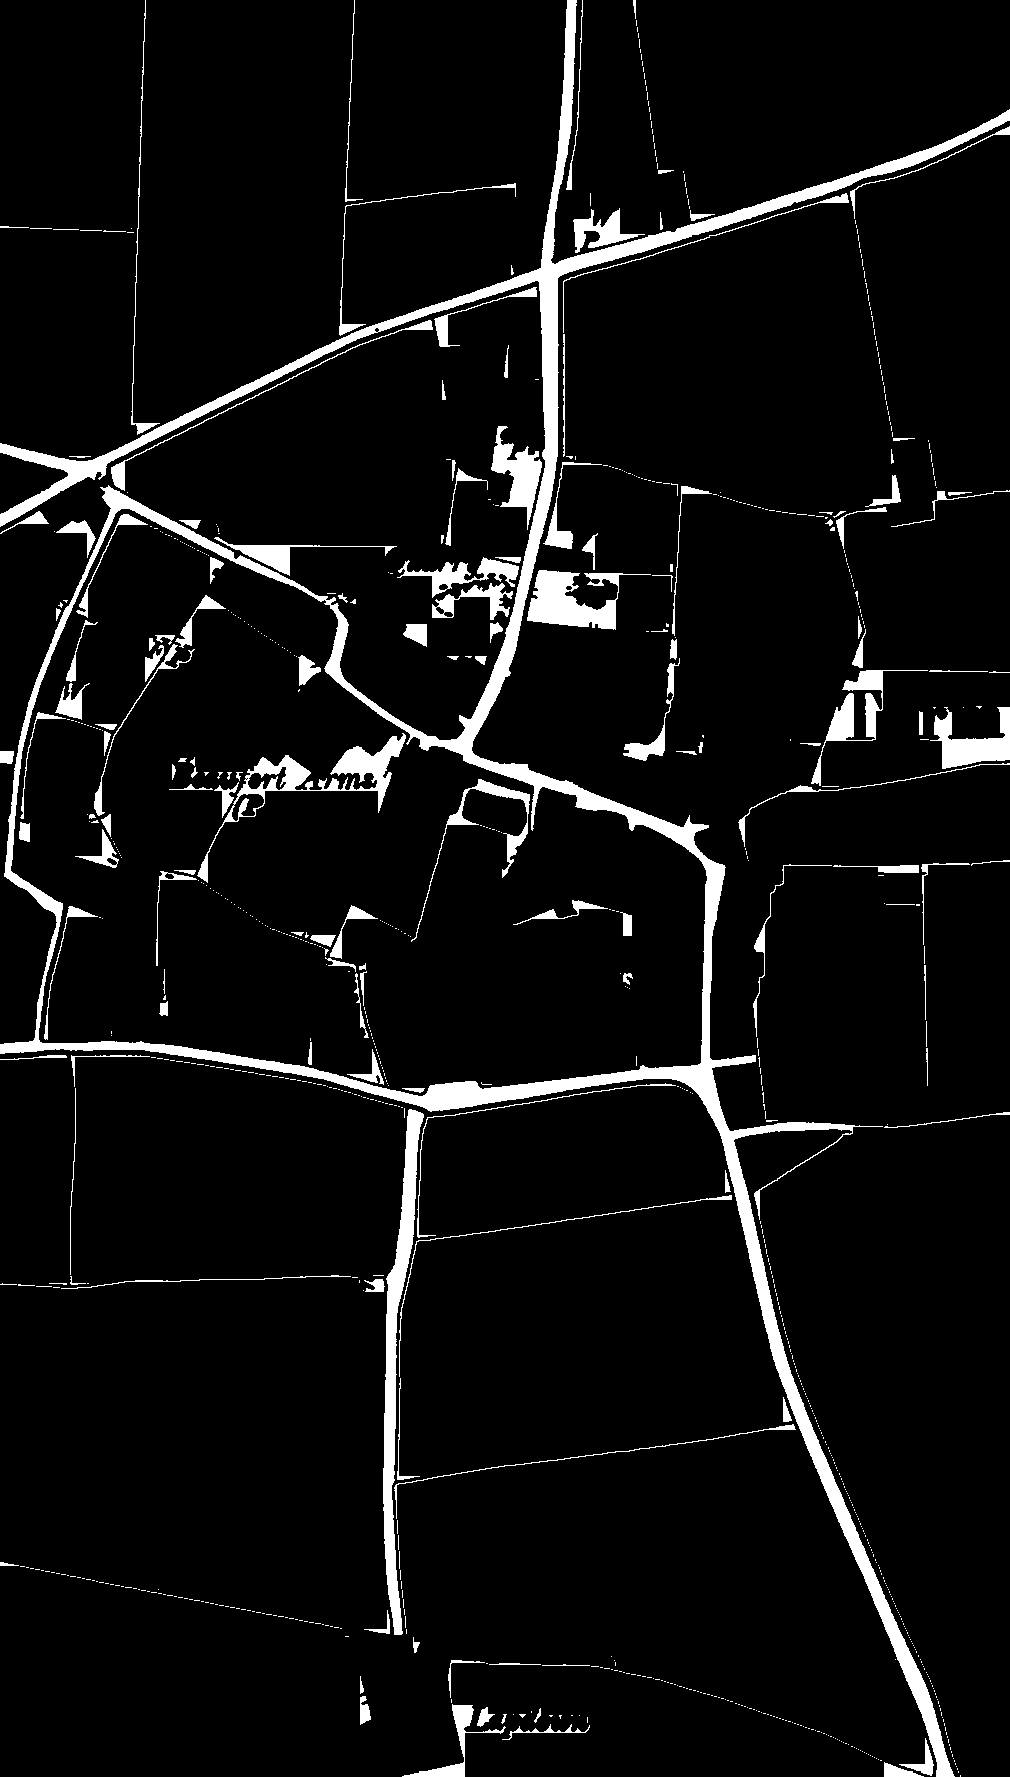
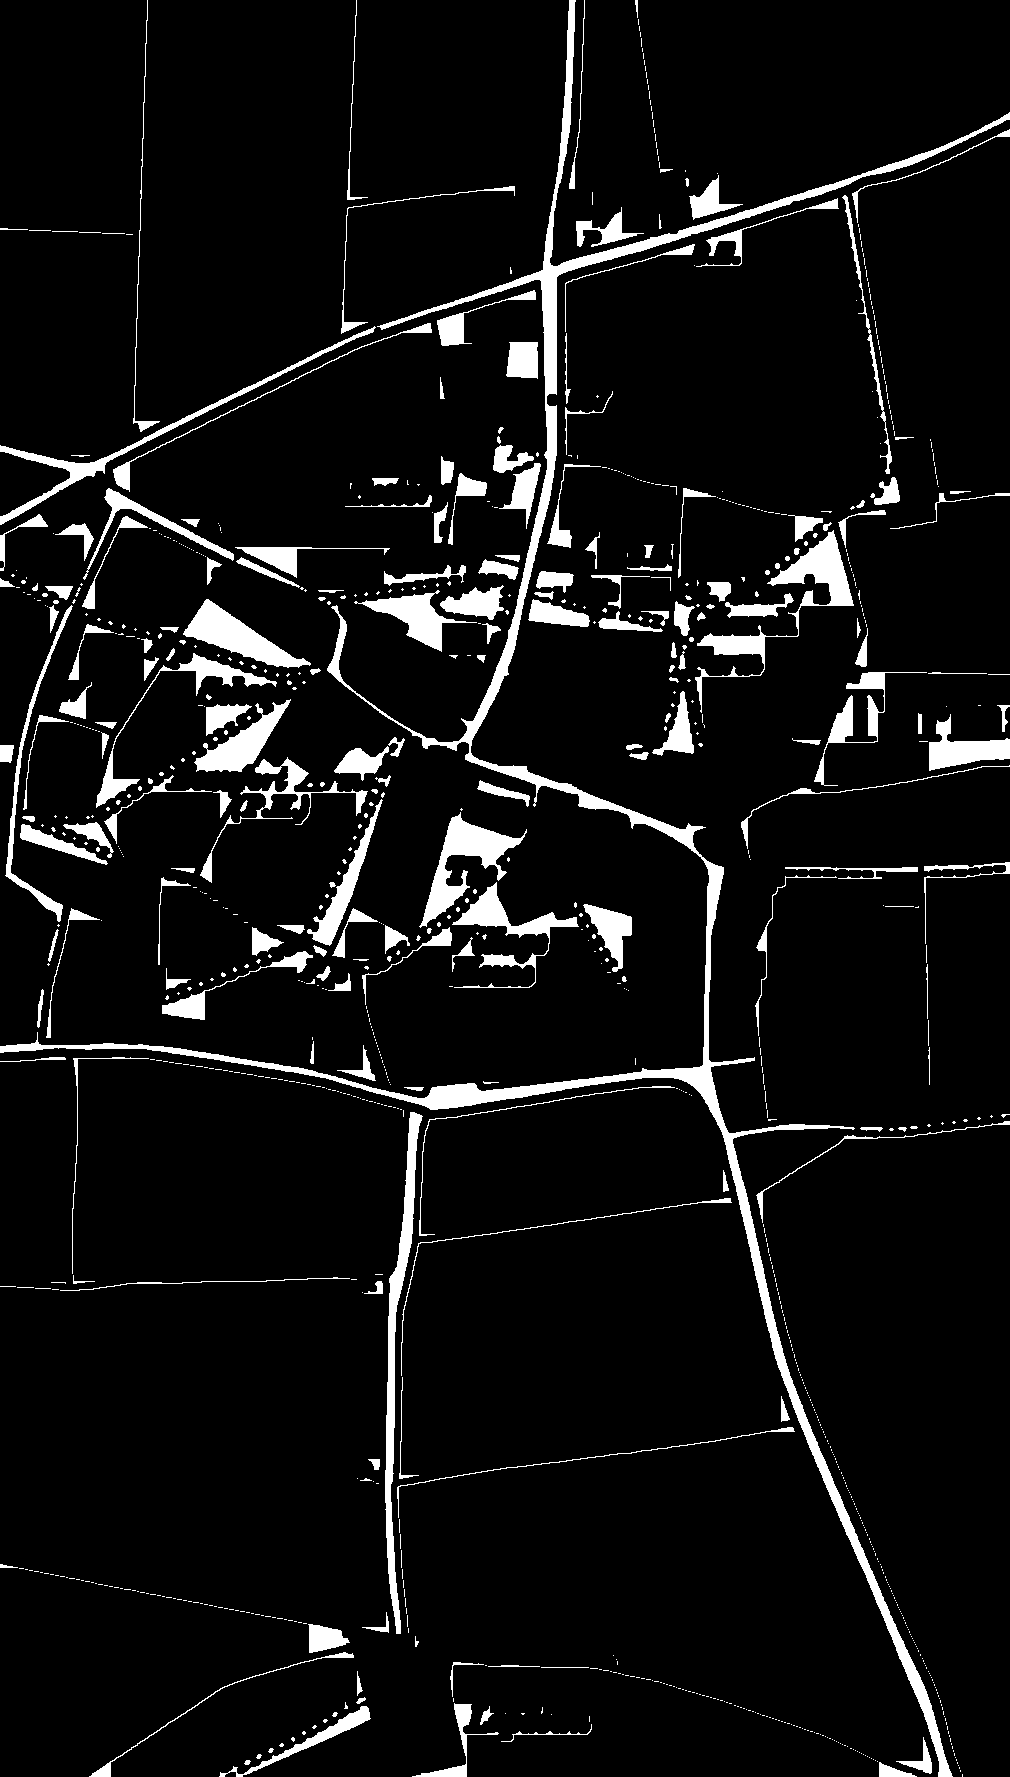
Improved erase_areas functionality

diff --git a/desCartes.py b/desCartes.py
@@ -42,12 +42,14 @@ from tiles_to_tiff import create_geotiff
 from extract_modern_roads import extract_modern_roads
 from patch_linestrings import merge_groups
 
-# A simple way to get the extent coordinates is to right-click on a Google map in a browser. Click on the displayed coordinates and then paste them below.
+# A simple way to get the extent coordinates is to open a Google map in a browser,
+# then right-click on the south-west corner of the area of interest. Then click on 
+# the displayed coordinates and then paste them below. Repeat for the north-east corner.
 EXTENT_SOUTHWEST_LAT, EXTENT_SOUTHWEST_LNG = 51.95244893871006, -1.7468378073656643
 EXTENT_NORTHEAST_LAT, EXTENT_NORTHEAST_LNG = 51.95504242639973, -1.7415778411414253
-LOCATION_NAME = 'longborough-detail'
+LOCATION_NAME = 'longborough'
 
-RASTER_TILE_KEY = 'U2vLM8EbXurAd3Gq6C45' # TO USE THE URL GIVEN BELOW, GET YOUR OWN KEY FROM https://cloud.maptiler.com/account/keys/
+RASTER_TILE_KEY = 'ySlCyGP2kmmfm9Dgtiqj' # TO USE THE URL GIVEN BELOW, GET YOUR OWN KEY FROM https://cloud.maptiler.com/account/keys/
 RASTER_TILE_URL = 'https://api.maptiler.com/tiles/uk-osgb10k1888/{z}/{x}/{y}.jpg?key=' + RASTER_TILE_KEY
 RASTER_TILE_ZOOM = 17
 
@@ -93,13 +95,25 @@ if SHOW_IMAGES:
     cv2.waitKey(0)
 
 window = 0
-def erase_areas(image, factor, closed = False, black = False, contours = True, subtract = False):
+def erase_areas(image, factor, closed = False, black = False, circles = False, contours = True, subtract = False):
     global window, OUTPUTDIR
     colour = 'black' if black else 'white'
     form = 'shapes' if contours else 'areas'
-    image = cv2.bitwise_not(image) if black else image
+    image = cv2.bitwise_not(image) if (black and not circles) else image
     size = factor * (MIN_ROAD_WIDTH ** 2) if contours else int(factor)
-    if contours:
+    if circles: # Used for removing, for example, dot shading (not very effective!)
+        form = 'circles'
+        r = factor
+        size = (2*r+4, 2*r+4)
+        template = np.ones(size, dtype=np.uint8)
+        cv2.circle(template, (r+2,r+2), r, (0,0,0), -1)
+        res = cv2.matchTemplate(image, template, cv2.TM_CCOEFF_NORMED)
+        # Threshold the result to find the locations where the image matches the kernel
+        loc = np.where(res >= 0.6)
+        # Draw circles of 8px diameter at the matching locations
+        for pt in zip(*loc[::-1]):
+            cv2.circle(image, (pt[0] + r+2, pt[1] + r+2), r, (255, 255, 255), -1)                                                               
+    elif contours:
         contours, _ = cv2.findContours(image, cv2.RETR_LIST, cv2.CHAIN_APPROX_SIMPLE)
         for contour in contours:
             if (cv2.isContourConvex(contour) or closed == False) and cv2.contourArea(contour) < size:
@@ -109,7 +123,7 @@ def erase_areas(image, factor, closed = False, black = False, contours = True, s
         eroded_image = cv2.erode(image, kernel, iterations=1)
         dilated_image = cv2.dilate(eroded_image, kernel, iterations=1)
         image = cv2.subtract(image, dilated_image) if subtract else dilated_image
-    image = cv2.bitwise_not(image) if black else image
+    image = cv2.bitwise_not(image) if (black and not circles) else image
     message = 'Removed ' + colour + ' ' + form + ' (size ' + str(size) + ')'
     print(message)
     
@@ -129,7 +143,9 @@ def erase_areas(image, factor, closed = False, black = False, contours = True, s
 
 ## TO DO: Following line is too blunt - test shapes for squareness before erasure, perhaps by comparing shape area with the area of its convex hull
 result_binary = erase_areas(result_binary, 500) # Erase white shapes
-# result_binary = erase_areas(result_binary, 6, closed = True, black = True) # Erase small black shapes
+result_binary = erase_areas(result_binary, 2, contours = False, black = True) # Erase black dots
+result_binary = erase_areas(result_binary, 50, closed = True, black = True) # Erase black shapes
+result_binary = erase_areas(result_binary, 100, black = True) # Erase black shapes
 result_binary = erase_areas(result_binary, 200, black = True) # Erase black shapes
 result_binary = erase_areas(result_binary, 2 * MAX_ROAD_WIDTH, contours = False, subtract = True) # Erase large white areas
 result_binary = erase_areas(result_binary, 2/3 * MIN_ROAD_WIDTH, contours = False) # Erase narrow white areas
